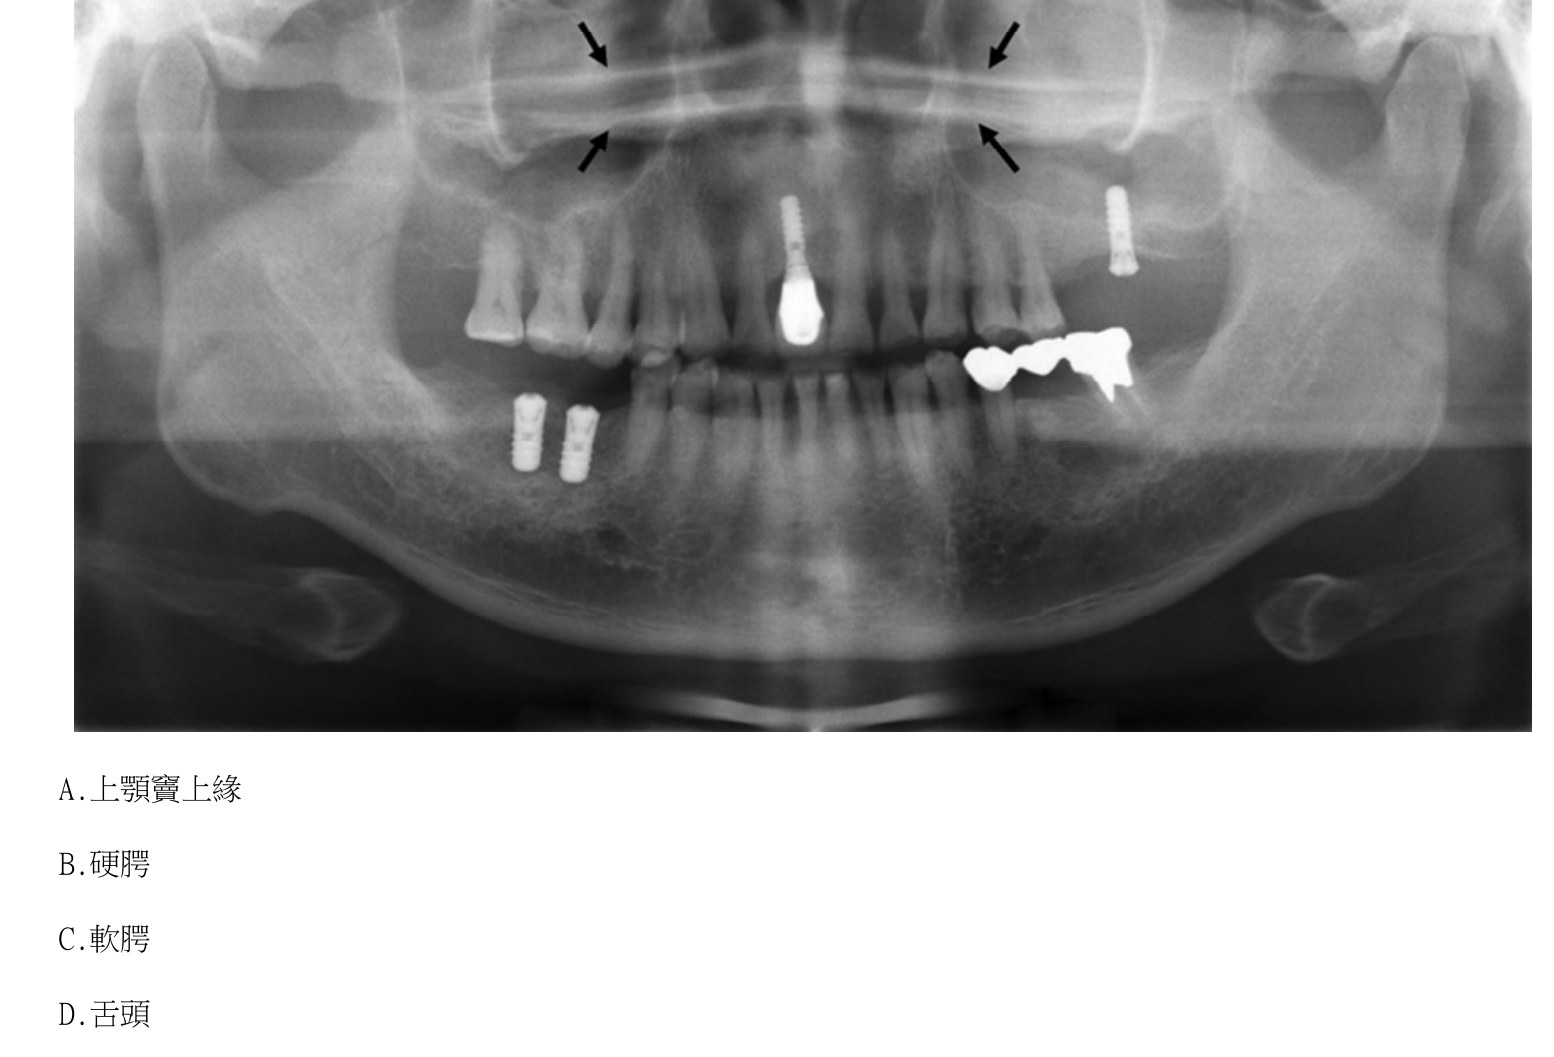
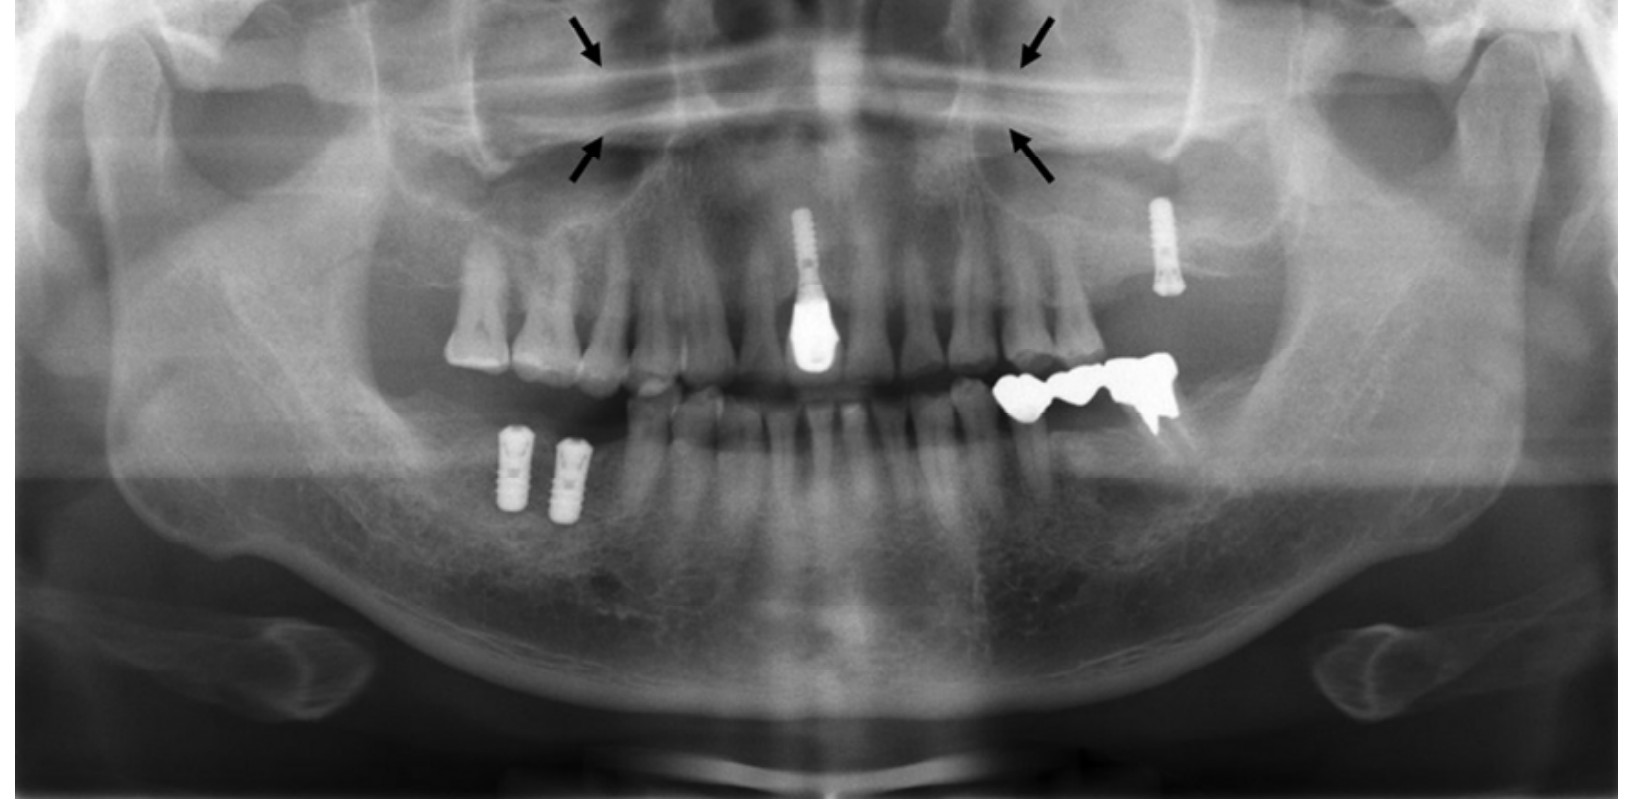
auto-deploy: sync 2026-08-06 14:25

diff --git a/version.js b/version.js
@@ -1,7 +1,7 @@
 // 全站版本號集中管理
 // sw.js 用 importScripts('./version.js') 讀,index.html / mnemonics.html 用 <script src="version.js"></script> 讀
 // 每次部署只要改這一行
-const APP_VERSION = "v484";
-const APP_VERSION_TAG = "115-2-images-fix-jp2-and-q63";
+const APP_VERSION = "v485";
+const APP_VERSION_TAG = "115-2-images-text-gap-clean-crop";
 if (typeof self !== "undefined") self.APP_VERSION = APP_VERSION;
 if (typeof window !== "undefined") window.APP_VERSION = APP_VERSION;
